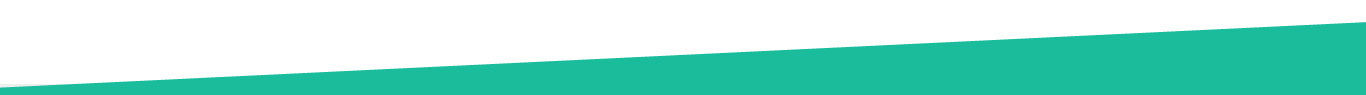
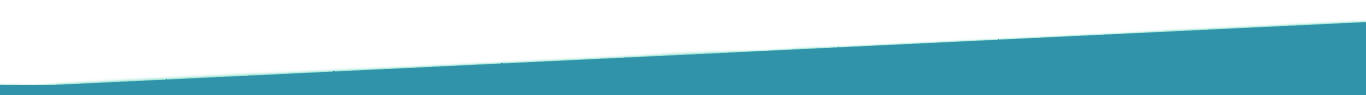
Change to blue color scheme

diff --git a/css/style.css b/css/style.css
@@ -157,7 +157,7 @@ float:left;
 float:right;
 }
 .border {
-  background: #52edc7;
+  background: #69c3d0;
   width: 70%;
   margin: 0 auto;
   padding: 1px;
@@ -250,7 +250,7 @@ background: url(../images/icons.png) no-repeat 0px -71px;
 /*--//about--*/
 /*--my skill--*/
 .my-skills{
-	background: #1abc9c;
+	background: #3193aa;
 	padding: 60px 0;
 }
 .my-skills h3{
@@ -302,7 +302,7 @@ margin:0px auto;
 color:#ffffff;
 font-size:18px;
 font-family: 'Lato', sans-serif;
-background:#52edc7;
+background:#69c3d0;
 width: 36%;
 padding: 3px 0;
 }
@@ -312,13 +312,13 @@ display:block;
 color:#ffffff;
 font-size:18px;
 font-family: 'Lato', sans-serif;
-background:#4ad7b4;
+background:#3193aa;
 width: 36%;
 padding: 3px 0;
 }
 .edu-grid-master{
 
-background:#52edc7;
+background:#69c3d0;
 padding: 15px 0;
 }
 .edu-grid-master h3{
@@ -384,7 +384,7 @@ left: 40%;
 .work-grid h3{
 margin:0;
 color:#ffffff;
-background:#52edc7;
+background:#69c3d0;
 padding: 9px 0;
 font-size: 18px;
 font-weight: 600;
@@ -519,7 +519,7 @@ top:0;
 left:0;
 -webkit-transform: scale(0);
 transform: scale(0);
-background-color:rgba(82, 237, 199, 0.5);
+background-color:rgba(49, 147, 170, 0.5);
 }
 .gallery1:hover .textbox {
 -webkit-transform: scale(1);
@@ -569,7 +569,7 @@ font-weight:700;
 /*--//portfolio--*/
 /*--process--*/
 .process{
-background:#52edc7;
+background:#69c3d0;
   padding: 30px 0 65px 0;
 }
 .process-gird{
@@ -653,7 +653,7 @@ padding:0 25px;
 /*--//process--*/
 .test-banner {
   background: #ffffff;
-  border-top: 15px solid #52edc7;
+  border-top: 15px solid #69c3d0;
   width: 54%;
   margin: 50px auto 0 auto;
   padding: 82px 45px;
@@ -975,7 +975,7 @@ padding:0 0 60px 0;
 background:#eeeeee;
 }
 .strip-line{
-  background: #52edc7;
+  background: #69c3d0;
   width: 20%;
   margin: 0 auto;
   padding: 1px;
@@ -1023,7 +1023,7 @@ font-family: 'Lato', sans-serif;
 font-weight:700;
 }
 .blog-grid a:hover{
-color :#52edc7;
+color :#69c3d0;
 }
 .stripa{
 background:#dedede;
@@ -1086,7 +1086,7 @@ position:relative;
   top: 42%;
   left: 14%;
   width: 17.5%;
-  background: #52edc7;
+  background: #69c3d0;
   transform: rotate(-46deg);
   -webkit-transform: rotate(-46deg);
   -o-transform: rotate(-46deg);
@@ -1095,7 +1095,7 @@ position:relative;
 /*-- blog --*/
 /*-- contact --*/
 .contact{
-background:#52edc7;
+background:#69c3d0;
 padding:60px 0 0 0;
 }
 .contact-info h3 {
@@ -1223,7 +1223,7 @@ color:#ffffff;
 font-weight:400;
 }
 .footer p a{
-color:#52edc7;
+color:#69c3d0;
 }
 .footer p a:hover{
 color:#ffffff;
@@ -1319,7 +1319,7 @@ background:#dcdcdf;
   	font-size: 20px;
   	font-weight: 500;
   	margin: 20px 0;
-  	color:#52edc7;
+  	color:#69c3d0;
   	line-height: 1.6em;
 }
 .sample-page-info p{
@@ -1408,7 +1408,7 @@ width:100%;
 	
 }
 .comment-icons ul li a:hover{
-	color:#52edc7;
+	color:#69c3d0;
 	text-decoration:none;
 	transition:.5s all;
 }
@@ -1458,7 +1458,7 @@ font-weight:600;
 }
 .category ul li a:hover{
 	transition:.5s all;
-	color:#52edc7;
+	color:#69c3d0;
 	text-decoration:none;
 }
 .recent-posts-info {
@@ -1476,7 +1476,7 @@ font-weight:600;
 	margin: 7px 0;
 }
 .posts-right h5 a{	
-	color: #52edc7;
+	color: #69c3d0;
 	transition:.5s all;
 	text-decoration:none;
 }
@@ -1516,7 +1516,7 @@ margin: 12px 0 0 0;
 	font-weight: 600;
 }
 .cmnt-icon-right p a {
-  color: #52edc7;
+  color: #69c3d0;
  
   text-decoration:none;
 }
@@ -1560,7 +1560,7 @@ margin: 12px 0 0 0;
   text-decoration:none;
 }
 .admin-text-right span a:hover{
-  color: #52edc7;
+  color: #69c3d0;
   transition:.5s all;
 }
 .related-posts-grids {
@@ -1598,7 +1598,7 @@ margin: 12px 0 0 0;
 }
 .response-text-left h5 a {
   text-decoration: none;
-  color: #52edc7;
+  color: #69c3d0;
 }
 .response-text-left h5 a:hover{
   text-decoration: none;
@@ -1643,7 +1643,7 @@ margin: 12px 0 0 0;
 	font-size: 14px;
 }
 .response-text-right ul li a:hover{
-	color:#52edc7;
+	color:#69c3d0;
 	transition:.5s all;
 	text-decoration:none;
 }
@@ -1695,7 +1695,7 @@ margin: 12px 0 0 0;
   border: 3px solid #2b2b2b;
 }
 .coment-form input[type="submit"]:hover{
-	border:3px solid #52edc7;
+	border:3px solid #69c3d0;
 }
 /*-- //single-page --*/
 /*-- to-top --*/

diff --git a/index.html b/index.html
@@ -113,7 +113,7 @@
 				 <script type="text/javascript" src="js/circles.js"></script>
 					         <script>
 								var colors = [
-										['#6ed4c0', '#ffffff'], ['#6ed4c0', '#ffffff'], ['#6ed4c0', '#ffffff'], ['#6ed4c0', '#ffffff'], ['#6ed4c0', '#ffffff'], ['#6ed4c0', '#ffffff']
+										['#7ad4e1', '#ffffff'], ['#7ad4e1', '#ffffff'], ['#7ad4e1', '#ffffff'], ['#7ad4e1', '#ffffff'], ['#7ad4e1', '#ffffff'], ['#7ad4e1', '#ffffff']
 									];
 								for (var i = 1; i <= 7; i++) {
 									var child = document.getElementById('circles-' + i),
@@ -247,11 +247,11 @@
 						</div>
 				</a></div>
                 <div class="col-md-4 gallery-grid gallery1">
-					<a href="http://unmonk.github.io/Weaboo/"><img src="images/p2.png" class="img-responsive" alt="/">
+					<a href="http://jptv.me/"><img src="images/p2.png" class="img-responsive" alt="/">
 						<div class="textbox">
 							<h4>JPTV</h4>
 							<p>LIVE JAPANESE TV</p>
-							<div class="button"><a href="http://unmonk.github.io/Weaboo/">VIEW</a></div>
+							<div class="button"><a href="http://jptv.me/">VIEW</a></div>
 						</div>
 				</a></div>
 				<div class="col-md-4 gallery-grid gallery1">
